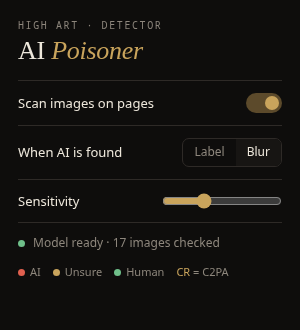
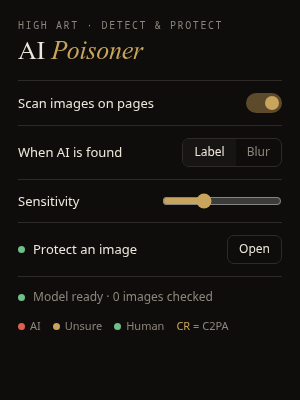
Extension: popup row to open the protect page with a backend status dot, screenshots

diff --git a/extension/popup.html b/extension/popup.html
@@ -18,16 +18,24 @@
   .status{display:flex;align-items:center;gap:8px;padding-top:12px;border-top:1px solid var(--faint);color:var(--mute);font-size:12px}
   .dot{width:7px;height:7px;border-radius:50%;background:var(--mute);flex:none}
   .dot.ready{background:#6fbf8a}.dot.loading{background:var(--gold)}.dot.error{background:#e0604f}
+  .open{background:none;border:1px solid var(--faint);border-radius:7px;color:var(--ink);font:inherit;font-size:12px;padding:5px 11px;cursor:pointer}
+  .open:hover{border-color:var(--gold)}
+  .open:focus-visible,.sw:focus-visible,.seg button:focus-visible{outline:2px solid var(--gold);outline-offset:2px}
+  .lbl{display:flex;align-items:center;gap:8px}
+  .open{background:none;border:1px solid var(--faint);border-radius:7px;color:var(--ink);font:inherit;font-size:12px;padding:5px 11px;cursor:pointer}
+  .open:hover{border-color:var(--gold)}
+  .open:focus-visible,.sw:focus-visible,.seg button:focus-visible{outline:2px solid var(--gold);outline-offset:2px}
   .legend{display:flex;gap:12px;margin-top:12px;font-size:11px;color:var(--mute)}
   .legend i{display:inline-block;width:7px;height:7px;border-radius:50%;margin-right:5px}
 </style></head>
 <body>
-  <div class="k">High Art · Detector</div>
+  <div class="k">High Art · Detect &amp; protect</div>
   <h1>AI <em>Poisoner</em></h1>
   <div class="row"><span>Scan images on pages</span><button class="sw" id="enabled" aria-pressed="true" aria-label="Enable"></button></div>
   <div class="row"><span>When AI is found</span>
     <div class="seg" id="mode"><button data-v="label">Label</button><button data-v="blur">Blur</button></div></div>
   <div class="row"><span>Sensitivity</span><input type="range" id="sens" min="0.6" max="0.97" step="0.01"></div>
+  <div class="row"><span class="lbl"><span class="dot" id="bdot" title="Backend not checked yet"></span>Protect an image</span><button class="open" id="protect" title="Opens in a new tab">Open</button></div>
   <div class="status"><span class="dot" id="dot"></span><span id="st">Starting…</span></div>
   <div class="legend"><span><i style="background:#e0604f"></i>AI</span><span><i style="background:#c9a45c"></i>Unsure</span><span><i style="background:#6fbf8a"></i>Human</span><span><span style="color:#c9a45c">CR</span> = C2PA</span></div>
   <script src="popup.js"></script>

diff --git a/extension/popup.js b/extension/popup.js
@@ -38,3 +38,15 @@ async function poll() {
   setTimeout(poll, 800);
 }
 poll();
+
+// Protect an image: opens the full-tab page; the dot shows whether the local backend answers.
+$('protect').onclick = () => { chrome.tabs.create({ url: chrome.runtime.getURL('protect.html') }); window.close(); };
+async function backend() {
+  const s = await chrome.storage.local.get({ backendUrl: 'http://127.0.0.1:8765' });
+  let ok = false;
+  try { ok = (await fetch(new URL('/api/health', s.backendUrl), { signal: AbortSignal.timeout(2000) })).ok; } catch {}
+  $('bdot').className = `dot ${ok ? 'ready' : 'error'}`;
+  $('bdot').title = ok ? 'Backend is running' : 'Backend is not running (open the page for setup steps)';
+  setTimeout(backend, 5000);
+}
+backend();
